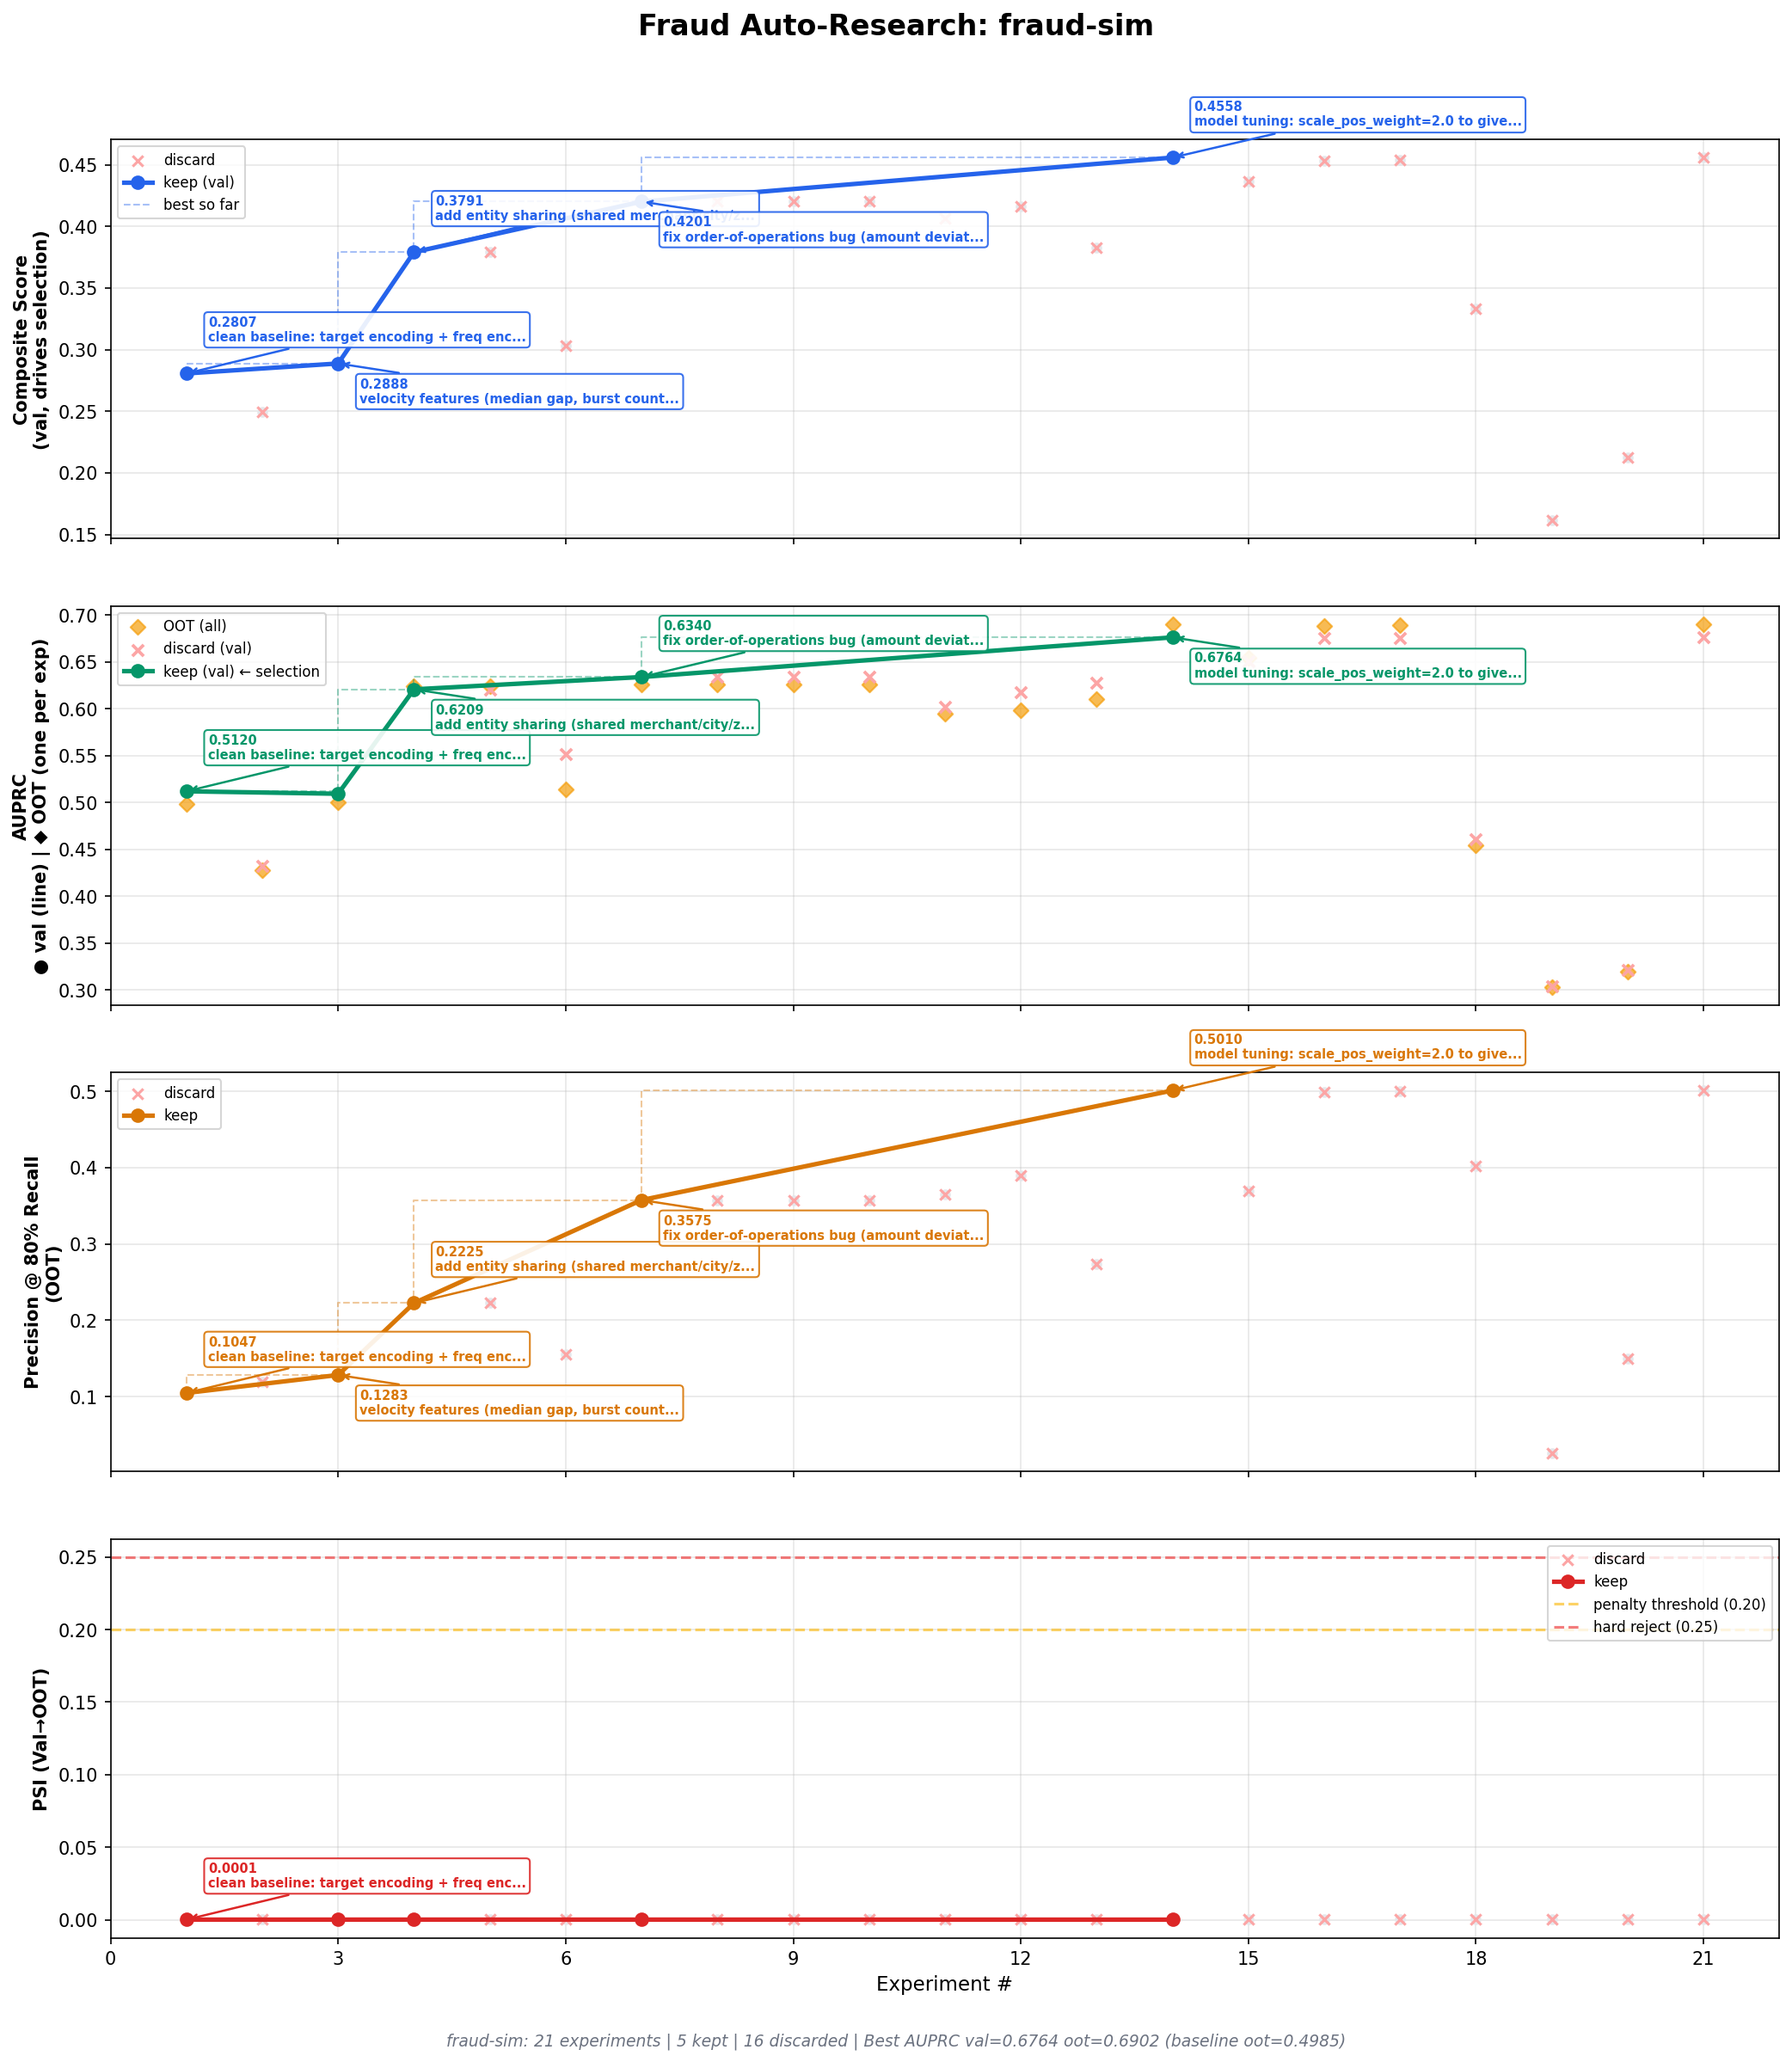
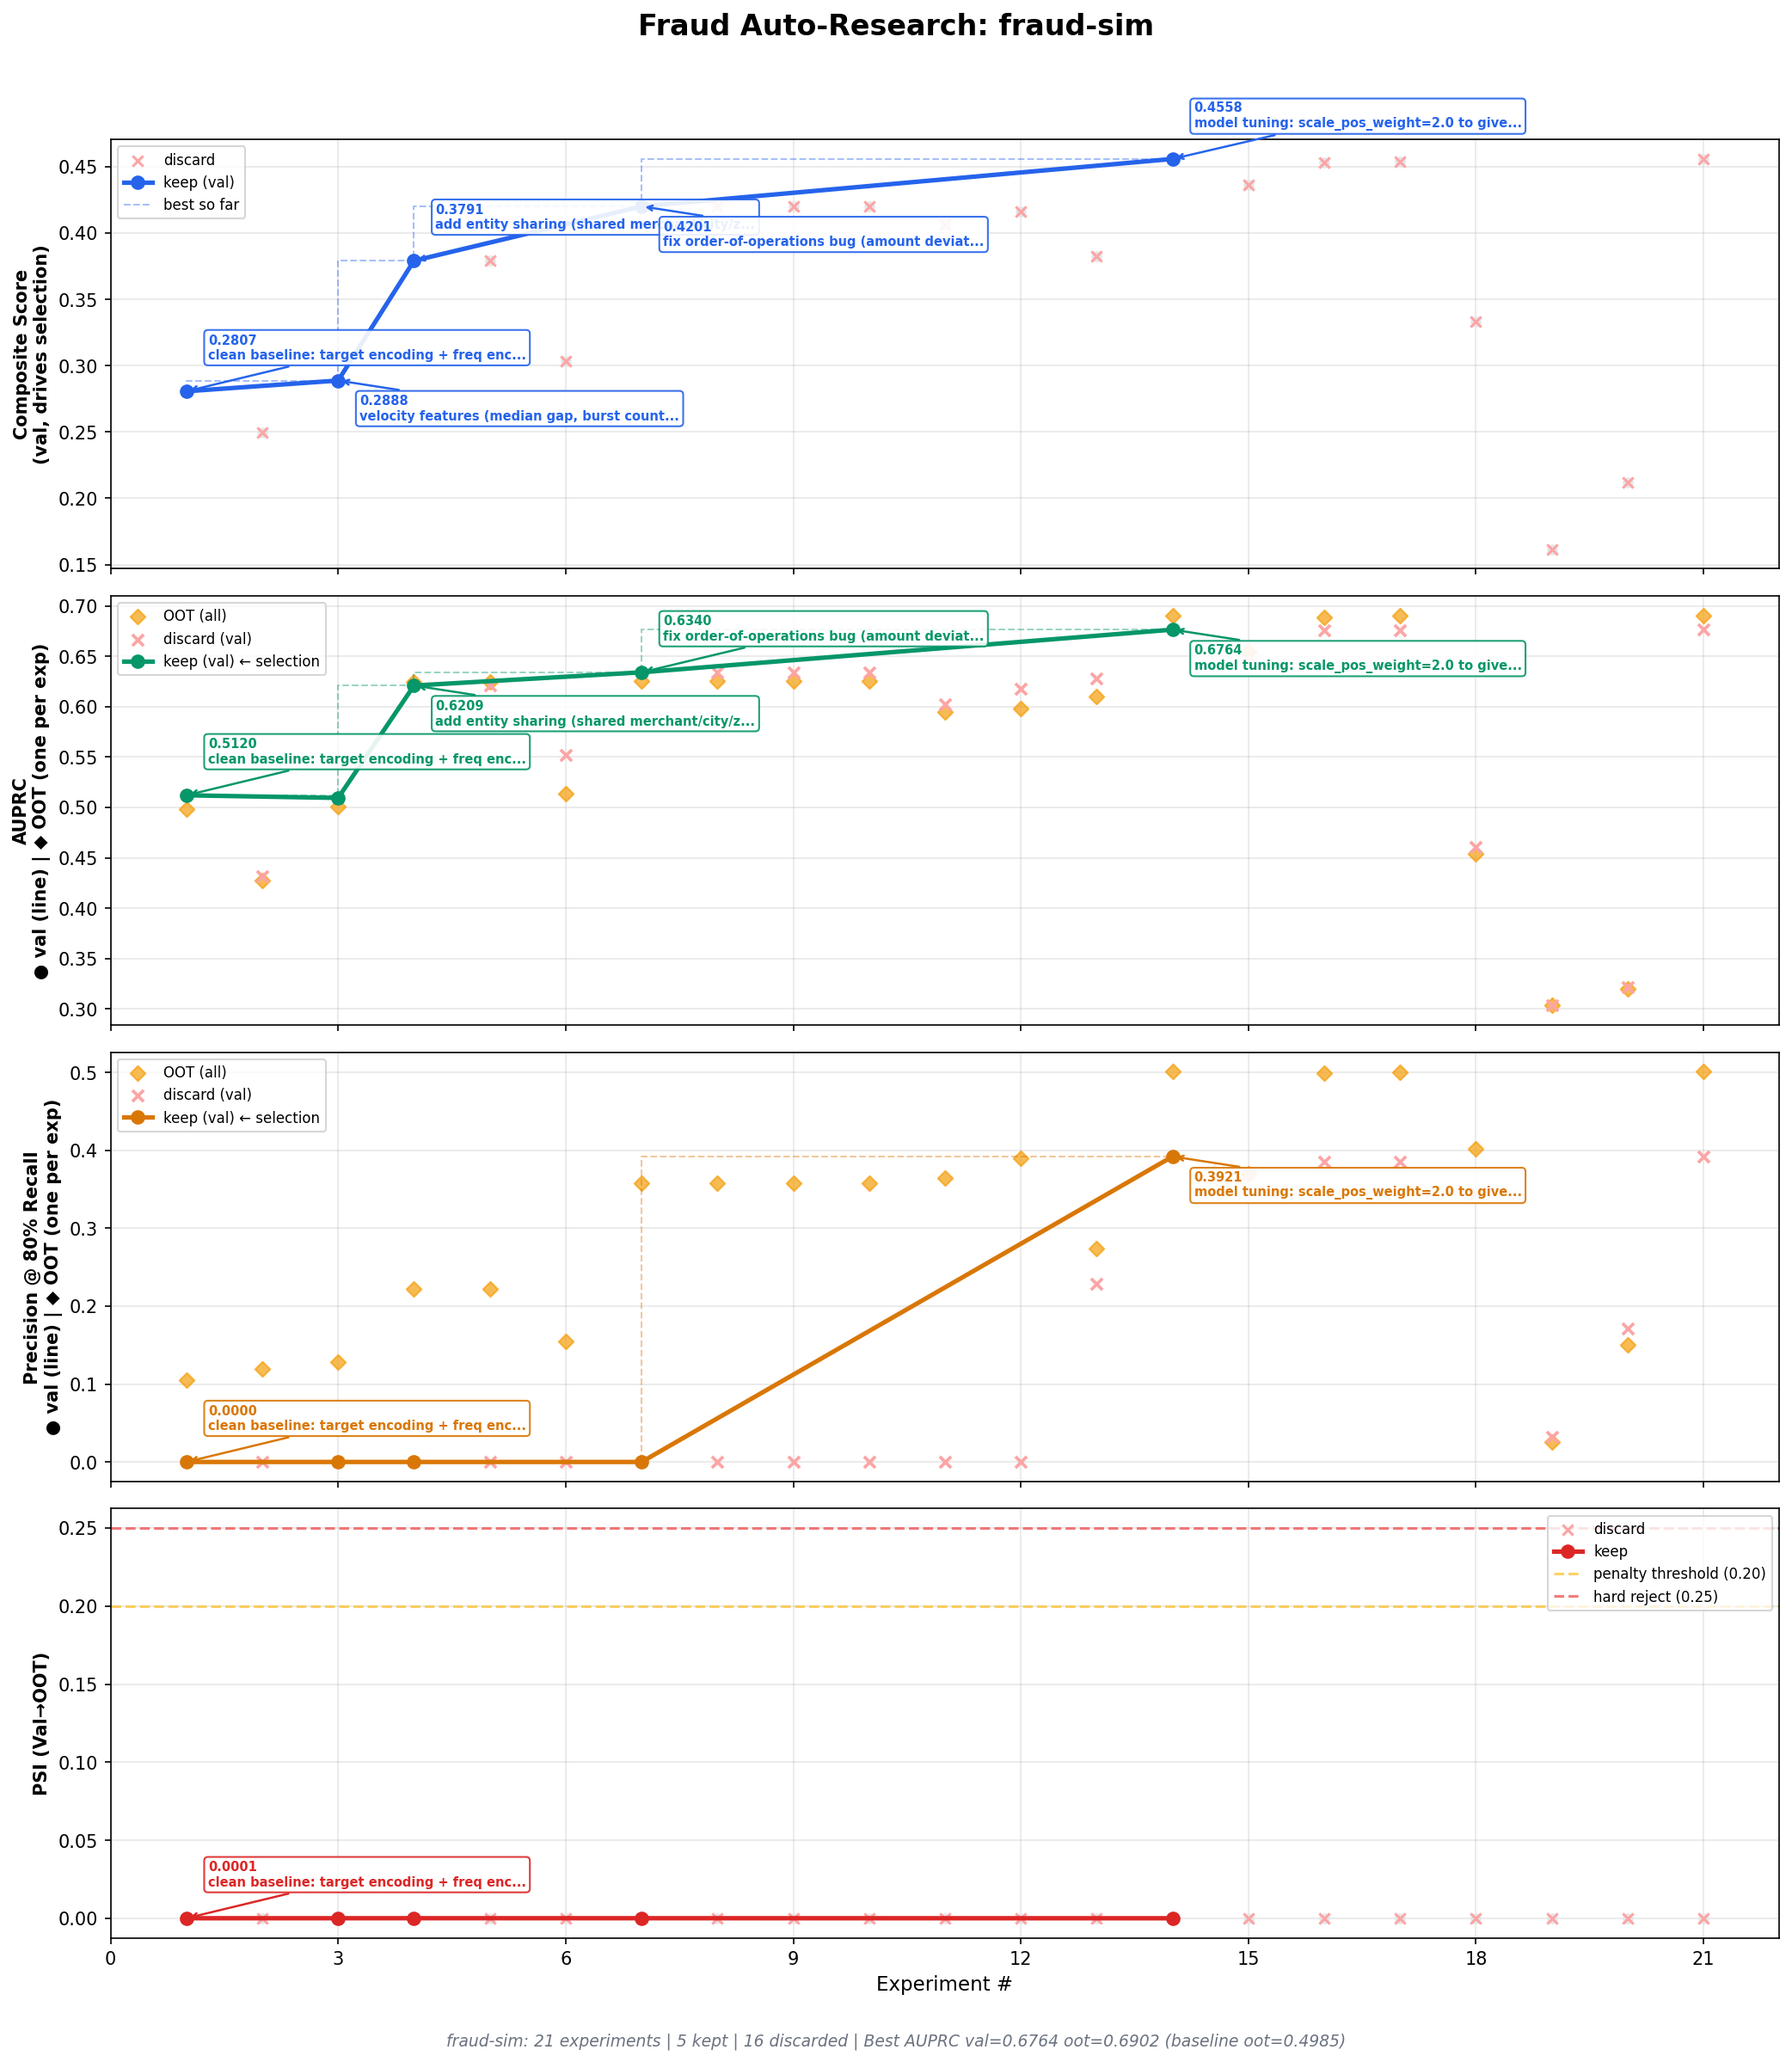
Precision@Recall panel: same val/OOT layout as AUPRC
- dashboard.py: pass prec@recall_val through _history_to_df
- plot_results.py: Precision@Recall panel now shows amber OOT diamonds
  for all experiments + green val line for kept, matching AUPRC layout

diff --git a/harness/plot_results.py b/harness/plot_results.py
@@ -166,21 +166,35 @@ def plot_dataset(df: pd.DataFrame, dataset_name: str, out_path: str):
         prec_ax_idx = 2
         psi_ax_idx = 3
 
-    # ── Panel: Precision @ Recall ─────────────────────────────────────────────
+    # ── Panel: Precision @ Recall (same 3-series layout as AUPRC) ────────────
     ax = axes[prec_ax_idx]
-    col = "prec@recall"
-    if col in df.columns:
-        vals = pd.to_numeric(df[col], errors="coerce")
-        ax.scatter(df.index, vals, color="#e5e7eb", s=25, zorder=2)
+    has_prec_val = "prec@recall_val" in df.columns and df["prec@recall_val"].notna().any()
+
+    if has_prec_val:
+        # OOT: one amber diamond per experiment
+        ax.scatter(df.index, pd.to_numeric(df["prec@recall"], errors="coerce"),
+                   color="#f59e0b", s=35, marker="D", zorder=3, alpha=0.7, label="OOT (all)")
         if len(discards):
-            ax.scatter(discards.index, pd.to_numeric(discards[col], errors="coerce"),
-                       color="#fca5a5", s=35, marker="x", linewidths=1.5, zorder=3, label="discard")
+            ax.scatter(discards.index, pd.to_numeric(discards["prec@recall_val"], errors="coerce"),
+                       color="#fca5a5", s=40, marker="x", linewidths=1.8, zorder=4, label="discard (val)")
         if len(keeps):
-            kv = pd.to_numeric(keeps[col], errors="coerce")
-            ax.plot(keeps.index, kv, color="#d97706", linewidth=2.5, marker="o", markersize=7, zorder=5, label="keep")
-            ax.step(keeps.index, kv.cummax(), color="#d97706", linewidth=1, linestyle="--", alpha=0.4, zorder=4)
-            _annotate_improvements(ax, keeps, col, "#d97706")
-    ax.set_ylabel("Precision @ 80% Recall\n(OOT)", fontsize=10, fontweight="bold")
+            kval = pd.to_numeric(keeps["prec@recall_val"], errors="coerce")
+            ax.plot(keeps.index, kval, color="#d97706", linewidth=2.5,
+                    marker="o", markersize=7, zorder=6, label="keep (val) ← selection")
+            ax.step(keeps.index, kval.cummax(), color="#d97706", linewidth=1,
+                    linestyle="--", alpha=0.4, zorder=4)
+            _annotate_improvements(ax, keeps, "prec@recall_val", "#d97706")
+        ax.set_ylabel("Precision @ 80% Recall\n● val (line) | ◆ OOT (one per exp)", fontsize=10, fontweight="bold")
+    else:
+        if "prec@recall" in df.columns:
+            ax.scatter(df.index, pd.to_numeric(df["prec@recall"], errors="coerce"),
+                       color="#e5e7eb", s=25, zorder=2)
+            if len(keeps):
+                kv = pd.to_numeric(keeps["prec@recall"], errors="coerce")
+                ax.plot(keeps.index, kv, color="#d97706", linewidth=2.5, marker="o", markersize=7, zorder=5, label="keep")
+                ax.step(keeps.index, kv.cummax(), color="#d97706", linewidth=1, linestyle="--", alpha=0.4, zorder=4)
+                _annotate_improvements(ax, keeps, "prec@recall", "#d97706")
+        ax.set_ylabel("Precision @ 80% Recall\n(OOT)", fontsize=10, fontweight="bold")
     ax.grid(True, alpha=0.3)
     ax.legend(loc="upper left", fontsize=8)
     ax.xaxis.set_major_locator(ticker.MaxNLocator(integer=True))

diff --git a/harness/dashboard.py b/harness/dashboard.py
@@ -40,6 +40,7 @@ def _history_to_df(history: list[dict]) -> pd.DataFrame:
             "auroc_val": ms.get("auroc_val", 0) or 0,
             "auroc": ms.get("auroc", 0) or 0,
             "prec@recall": ms.get("precision_at_recall", 0) or 0,
+            "prec@recall_val": ms.get("precision_at_recall_val", 0) or 0,
             "psi": ms.get("psi", 0) or 0,
             "n_features": ms.get("n_features", 0) or 0,
             "status": exp.get("status", "discard"),
